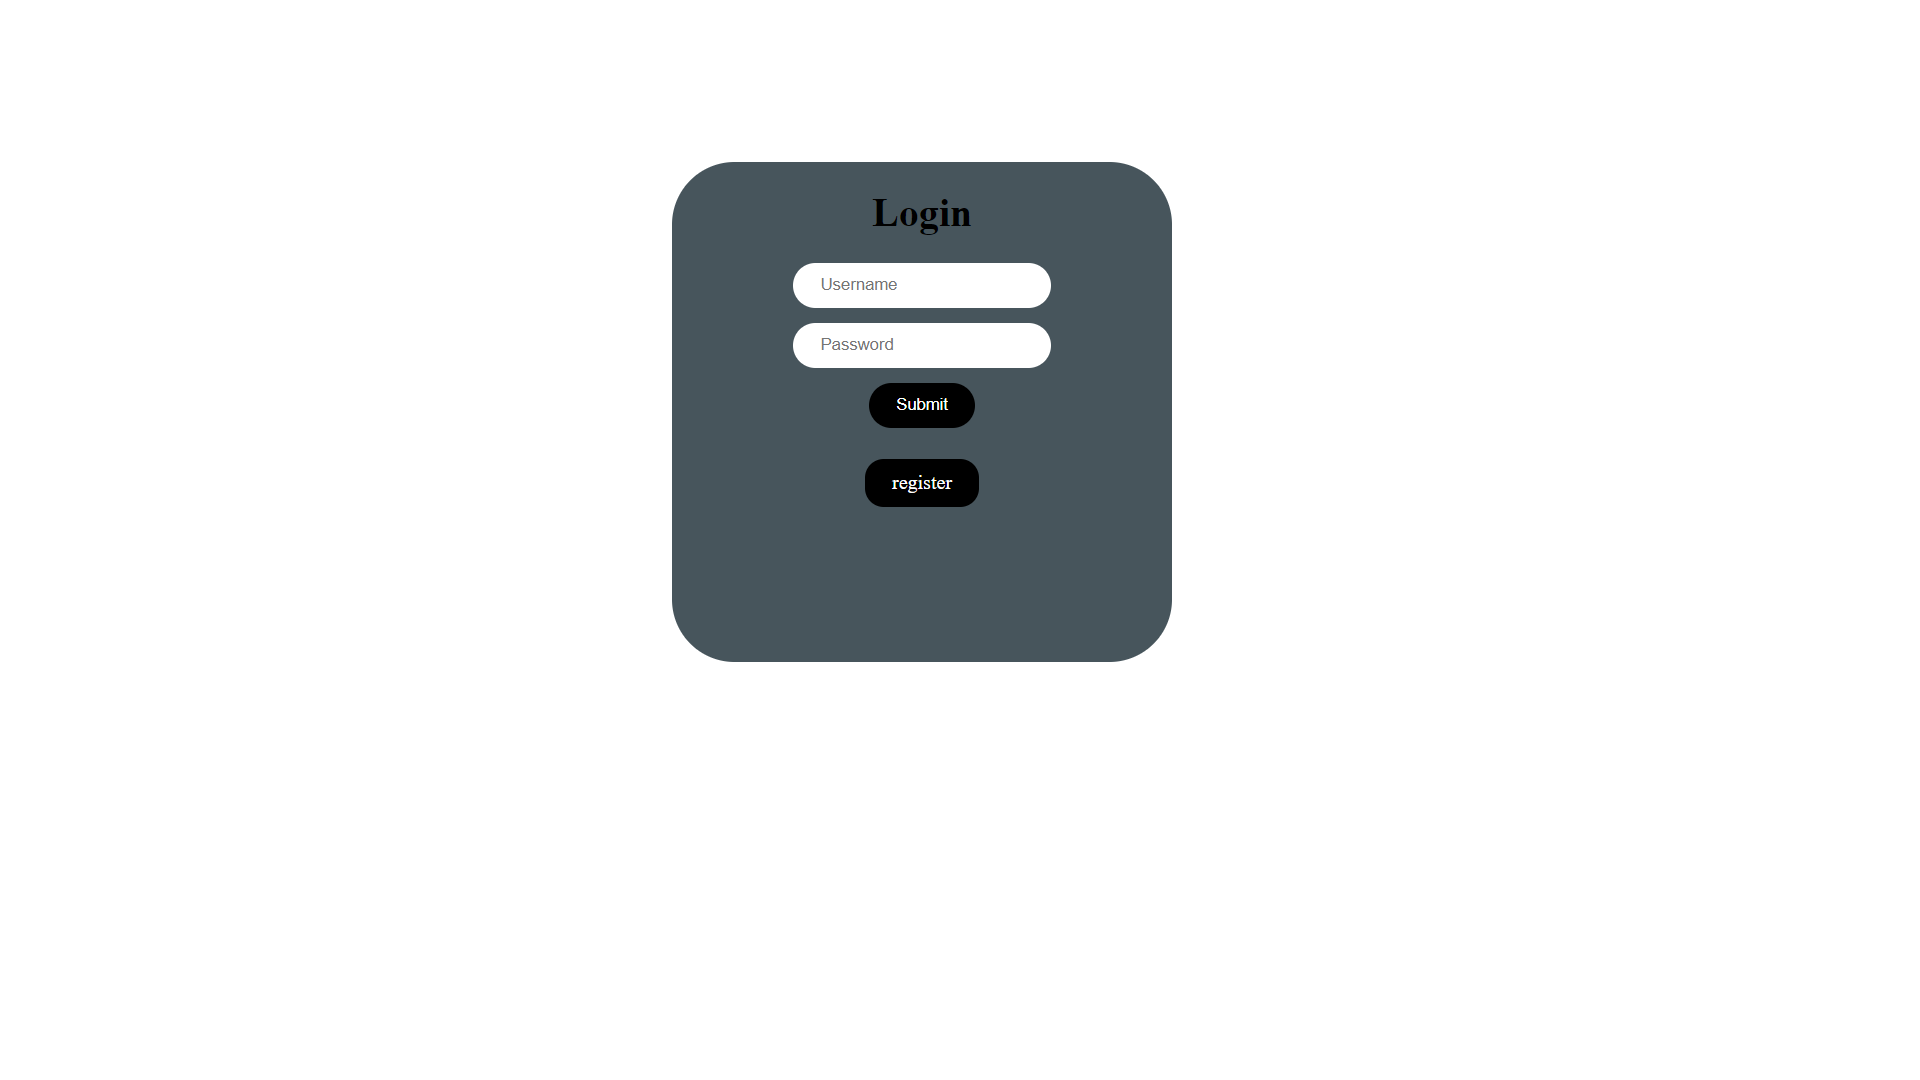
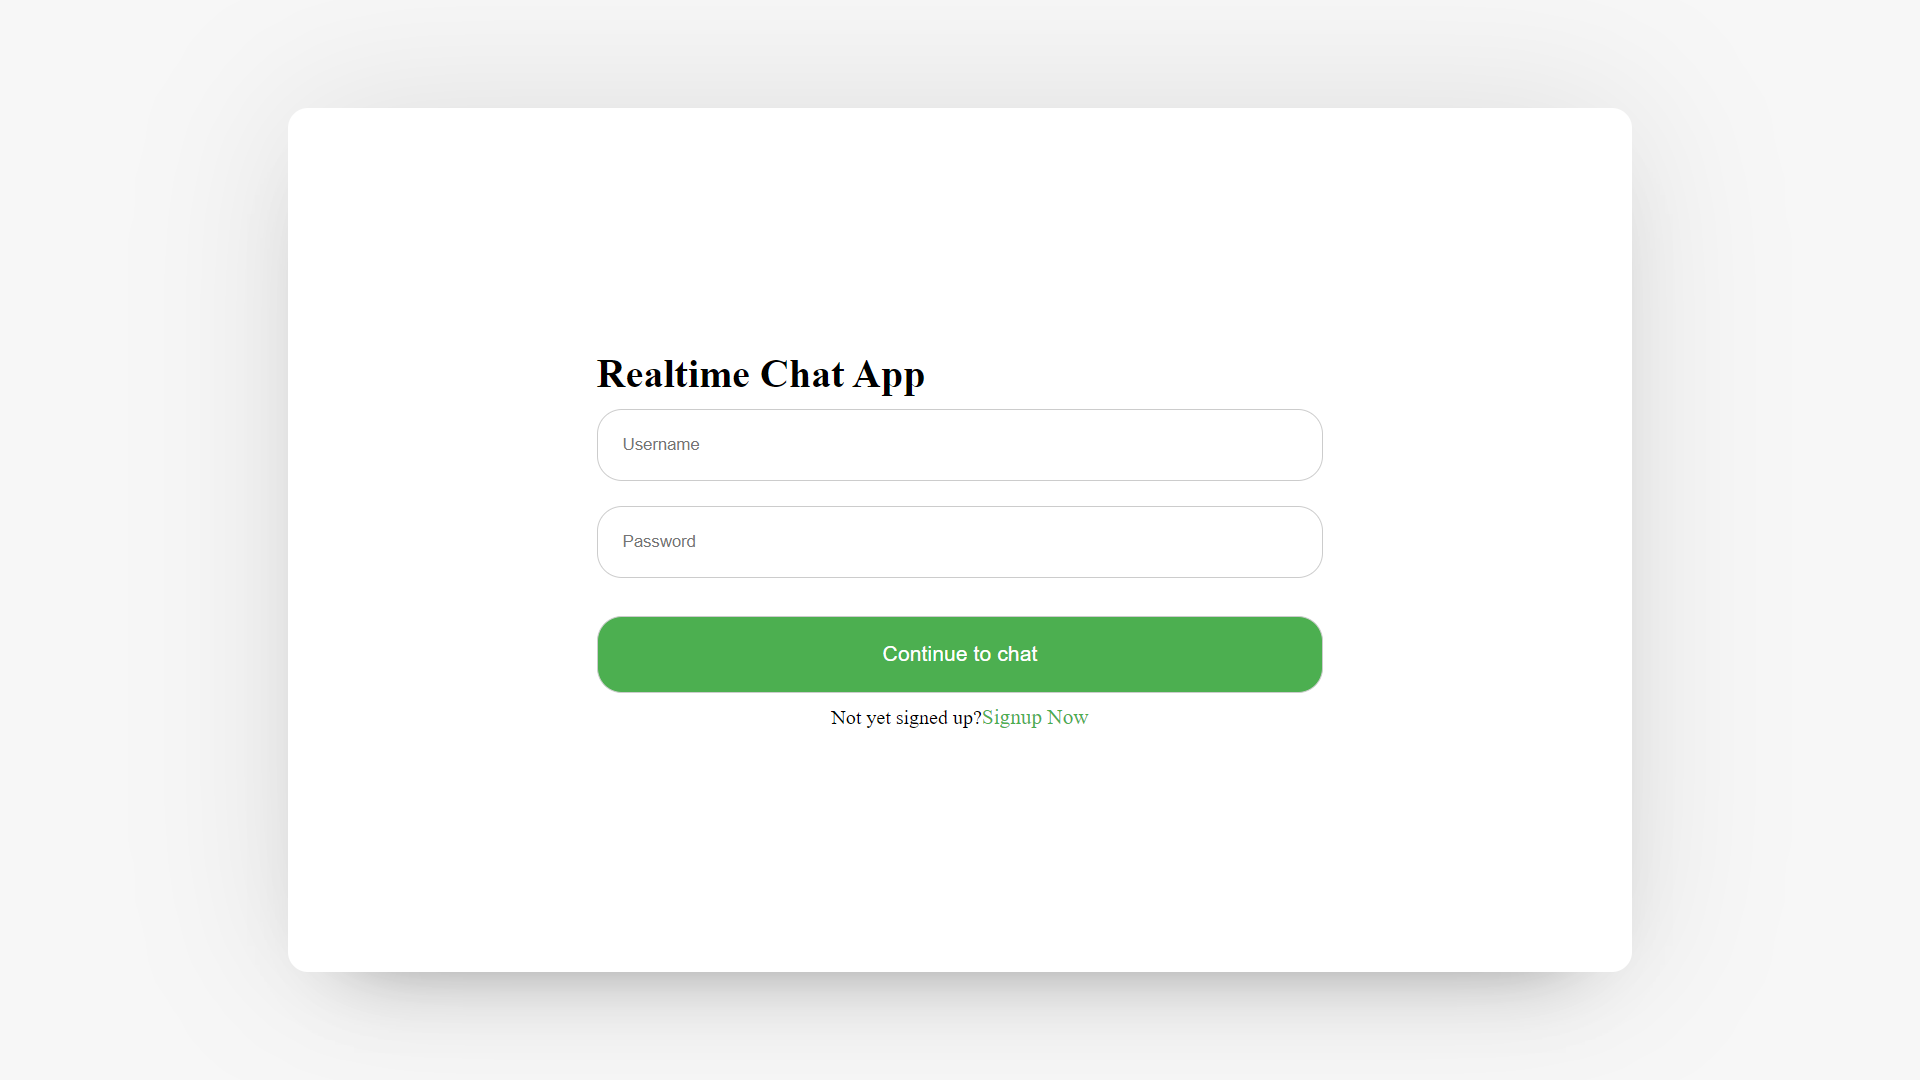
latest images of project

diff --git a/css/registration_form.css b/css/registration_form.css
@@ -46,7 +46,7 @@
     margin-bottom: 10px;
     width: 100%;
     margin-top: 20px;
-    background: #075E54;
+    background: #4CAF50;
     color: #fff;
     font-size: 17px;
   }
@@ -54,7 +54,7 @@
  
   a{
     font-size: 17px;
-    color: #075E54;
+    color: #4CAF50;
     text-decoration: none!important;
 }
 a:hover{

diff --git a/css/login_form.css b/css/login_form.css
@@ -48,13 +48,13 @@
     margin-bottom: 10px;
     width: 100%;
     margin-top: 20px;
-    background: #075E54;
+    background: #4CAF50;
     color: #fff;
     font-size: 17px;
   }
   a{
     font-size: 17px;
-    color: #075E54;
+    color: #4CAF50;
     text-decoration: none!important;
 }
 a:hover{

diff --git a/css/style.css b/css/style.css
@@ -89,7 +89,7 @@ top: 0;
   flex-direction: column;
   width: 70%;
   height: calc(100vh - 4rem);
-  background-color: #4CAF50;
+ 
 
 }
 #user-data

diff --git a/index.php b/index.php
@@ -50,6 +50,25 @@ if (!isset($_SESSION["username"])) {
         </div>
         <div class="right">
 
+        
+        <?php
+            //     include "db_conn.php"; 
+            //     $_SESSION['usernameselected']  = $_GET['myid'];
+            //     $usernameselected=$_GET['myid'];
+            //     $qq = "SELECT `id` FROM `user` WHERE user= '$usernameselected';";
+            //     $rr = mysqli_query($conn,$qq);
+            //     $rowud = mysqli_fetch_array($rr);
+            //     $receiver_id=$rowud['id']; 
+                
+            //     $qq_pic = "SELECT `img_path` FROM `user` WHERE user= '$usernameselected';";
+            //     $rr_pic= mysqli_query($conn,$qq_pic);
+            //     $rowud_pic = mysqli_fetch_array($rr_pic);
+            //     $img_path=$rowud_pic['img_path'];
+            //    echo "<p>";
+            //     echo "<img src=\"$img_path\" alt=\"error\">"; 
+            //     echo '<strong id="n3">' . ucfirst($_SESSION['usernameselected']) . '</strong>';
+            //     echo "</p>"
+            //      ?>
         </div>
 
     </header>
@@ -206,6 +225,7 @@ if (!isset($_SESSION["username"])) {
                 if (response.ok) {
                     const message = document.getElementById("input_message_id").value;
                     const userDataElement = document.getElementById("user-data");
+                    
                     const sender = <?php echo $_SESSION['sender_id']; ?>;
                     const receiver = document.getElementById("receiverIdField").value;
                     const messageHtml = `<div class="message self"><p>${message}</p></div>`;
